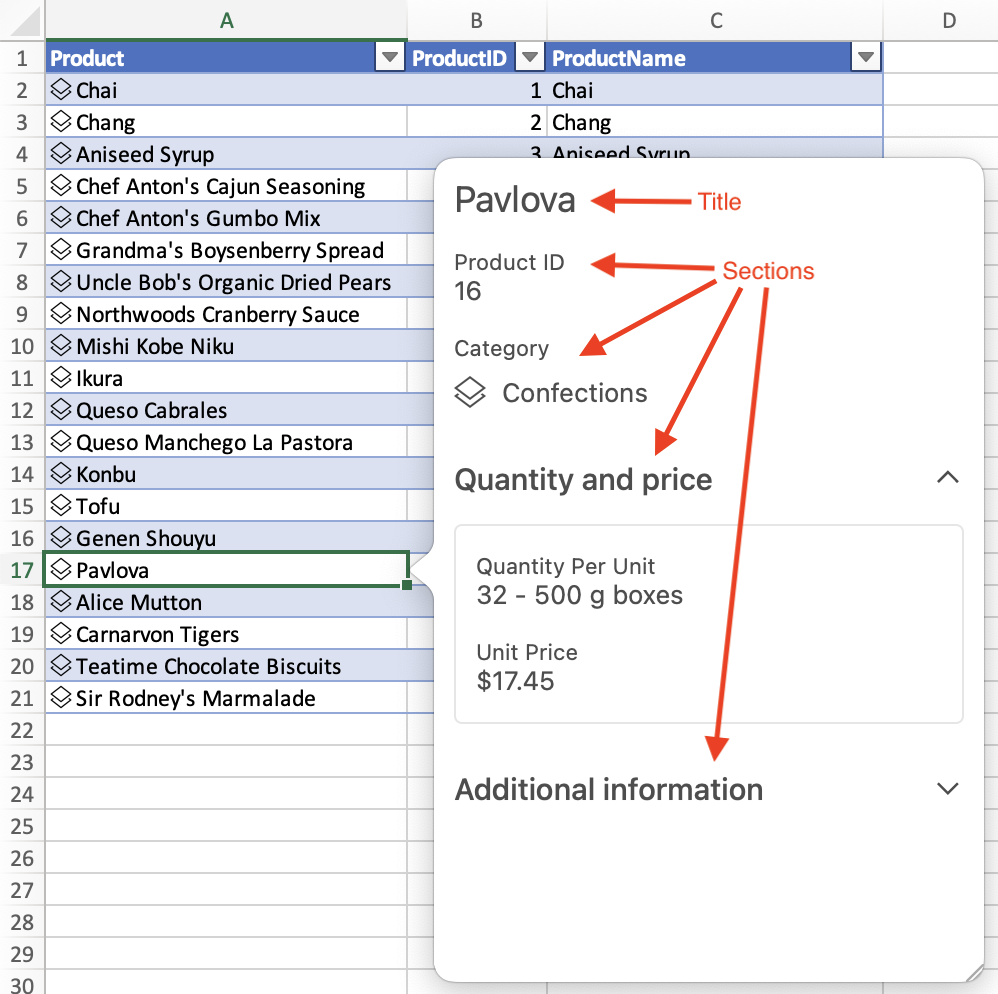
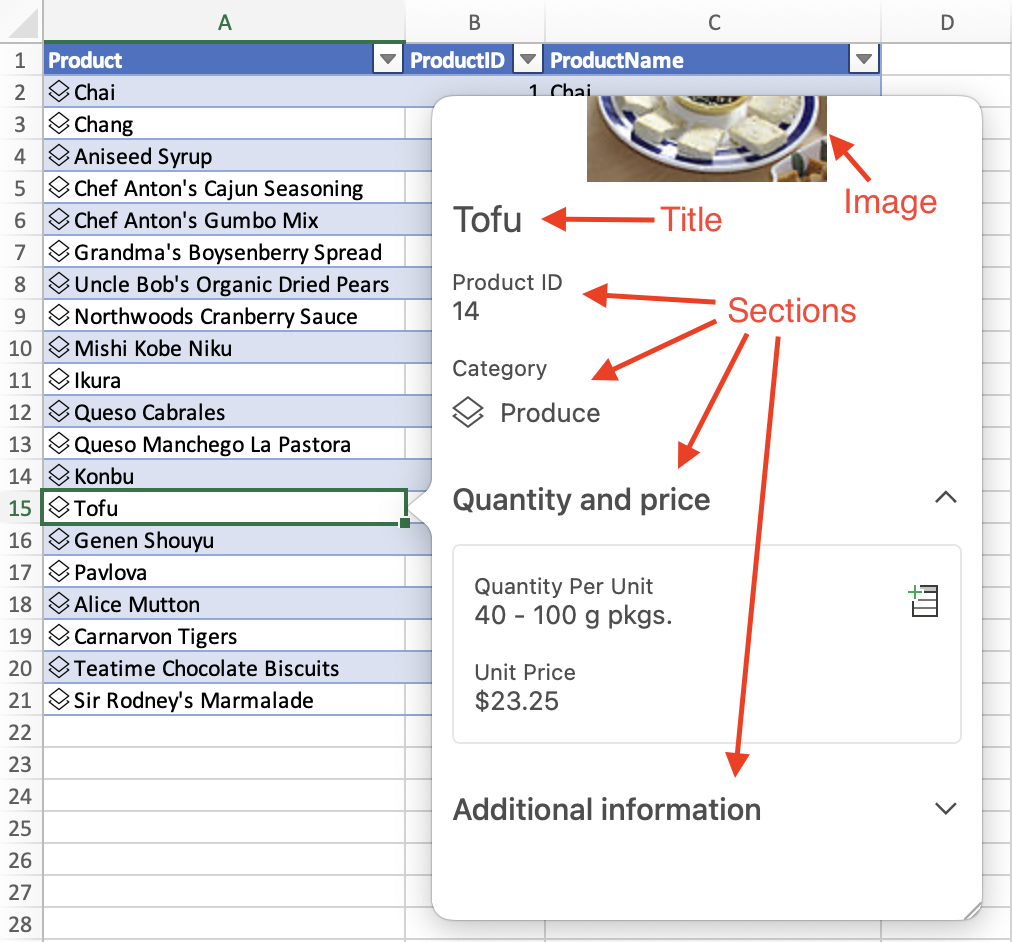
Update second card screenshot and article section

diff --git a/docs/excel/excel-data-types-entity-card.md b/docs/excel/excel-data-types-entity-card.md
@@ -128,7 +128,7 @@ const entity: Excel.EntityCellValue = {
 };
 ```
 
-The following screenshot shows an entity value card that uses the preceding code snippets. The screenshot shows the `title` object, which uses the **Product Name** and is set to **Pavlova**. The screenshot also shows `sections`. The **Quantity and price** section is collapsible and contains **Quantity Per Unit** and **Unit Price**. The **Additional information** field is collapsible and is collapsed when the card is opened.
+The following screenshot shows an entity value card that uses the preceding code snippets. The screenshot shows the `mainImage` object at the top, and then `title` object which uses the **Product Name** and is set to **Tofu**. The screenshot also shows `sections`. The **Quantity and price** section is collapsible and contains **Quantity Per Unit** and **Unit Price**. The **Additional information** field is collapsible and is collapsed when the card is opened.
 
 :::image type="content" source="../images/excel-data-types-entity-card-sections.png" alt-text="A screenshot showing an entity value data type with the card layout window displayed. The card shows the card title and sections.":::
 
